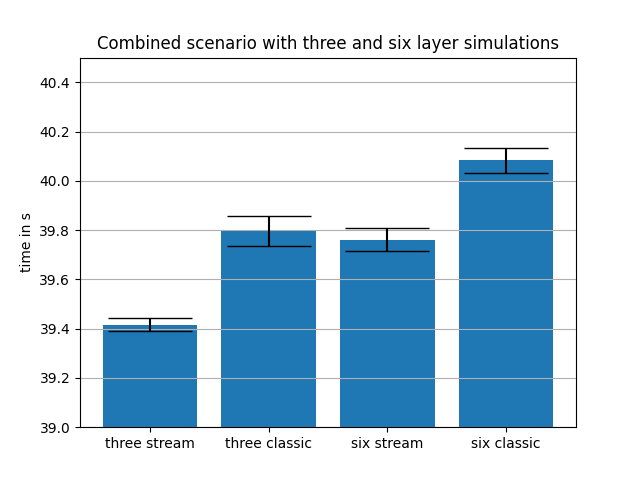
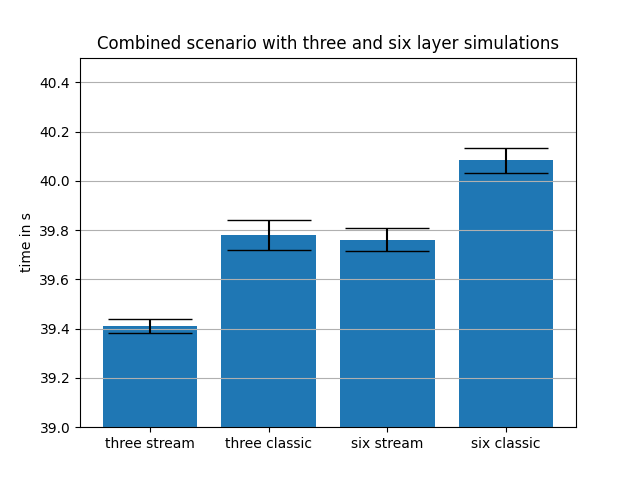
Add median plots

Changed region(s): [[0.3438, 0.4375, 0.5, 0.5312], [0.1562, 0.6562, 0.3125, 0.7188]]

diff --git a/PiCN/Simulations/Streaming/CombinedSimulations/create_plot_combined.py b/PiCN/Simulations/Streaming/CombinedSimulations/create_plot_combined.py
@@ -55,6 +55,11 @@ three_classic_mean = np.mean(three_time_list_classic)
 six_stream_mean = np.mean(six_time_list_stream)
 six_classic_mean = np.mean(six_time_list_classic)
 
+three_stream_median = np.median(three_time_list_stream)
+three_classic_median = np.median(three_time_list_classic)
+six_stream_median = np.mean(six_time_list_stream)
+six_classic_median = np.mean(six_time_list_classic)
+
 three_stream_std = np.std(three_time_list_stream)
 three_classic_std = np.std(three_time_list_classic)
 six_stream_std = np.std(six_time_list_stream)
@@ -63,16 +68,21 @@ six_classic_std = np.std(six_time_list_classic)
 labels = ["three stream", "three classic", "six stream", "six classic"]
 x_pos = np.arange(len(labels))
 means = [three_stream_mean, three_classic_mean, six_stream_mean, six_classic_mean]
+print(three_stream_median, three_stream_mean)
+print(three_classic_median, three_classic_mean)
+print(six_stream_median, six_stream_mean)
+print(six_classic_median, six_classic_mean)
+medians = [three_stream_median, three_classic_median, six_stream_median, six_classic_median]
 error = [three_stream_std, three_classic_std, six_stream_std, six_classic_std]
 
 fig, temp = plt.subplots()
-temp.bar(x_pos, means, yerr=error, align="center", alpha=1, ecolor="black", capsize=30)
+temp.bar(x_pos, medians, yerr=error, align="center", alpha=1, ecolor="black", capsize=30)
 temp.set_ylabel("time in s")
 temp.set_xticks(x_pos)
 temp.set_xticklabels(labels)
-temp.set_title('Combined scenario with three and six layer simulations')
+temp.set_title('Combined scenario with three and six layer simulations (with median)')
 temp.yaxis.grid(True)
 
 plt.ylim(39,40.5)
-plt.savefig('combined_errorbar_plot.png')
+plt.savefig('combined_errorbar_plot_median.png')
 plt.show()

diff --git a/PiCN/Simulations/Streaming/ReduceSimulations/create_plot_reduce.py b/PiCN/Simulations/Streaming/ReduceSimulations/create_plot_reduce.py
@@ -55,6 +55,12 @@ three_classic_mean = np.mean(three_time_list_classic)
 six_stream_mean = np.mean(six_time_list_stream)
 six_classic_mean = np.mean(six_time_list_classic)
 
+
+three_stream_median = np.median(three_time_list_stream)
+three_classic_median = np.median(three_time_list_classic)
+six_stream_median = np.mean(six_time_list_stream)
+six_classic_median = np.mean(six_time_list_classic)
+
 three_stream_std = np.std(three_time_list_stream)
 three_classic_std = np.std(three_time_list_classic)
 six_stream_std = np.std(six_time_list_stream)
@@ -63,16 +69,21 @@ six_classic_std = np.std(six_time_list_classic)
 labels = ["three stream", "three classic", "six stream", "six classic"]
 x_pos = np.arange(len(labels))
 means = [three_stream_mean, three_classic_mean, six_stream_mean, six_classic_mean]
+print(three_stream_median, three_stream_mean)
+print(three_classic_median, three_classic_mean)
+print(six_stream_median, six_stream_mean)
+print(six_classic_median, six_classic_mean)
+medians = [three_stream_median, three_classic_median, six_stream_median, six_classic_median]
 error = [three_stream_std, three_classic_std, six_stream_std, six_classic_std]
 
 fig, temp = plt.subplots()
-temp.bar(x_pos, means, yerr=error, align="center", alpha=1, ecolor="black", capsize=30)
+temp.bar(x_pos, medians, yerr=error, align="center", alpha=1, ecolor="black", capsize=30)
 temp.set_ylabel("time in s")
 temp.set_xticks(x_pos)
 temp.set_xticklabels(labels)
-temp.set_title('Reduce scenario with three and six layer simulations')
+temp.set_title('Reduce scenario with three and six layer simulations (with median)')
 temp.yaxis.grid(True)
 
 plt.ylim(20,20.8)
-plt.savefig('reduce_errorbar_plot.png')
+plt.savefig('reduce_errorbar_plot_median.png')
 plt.show()

diff --git a/PiCN/Simulations/Streaming/MapSimulations/create_plot_map.py b/PiCN/Simulations/Streaming/MapSimulations/create_plot_map.py
@@ -55,6 +55,11 @@ three_classic_mean = np.mean(three_time_list_classic)
 six_stream_mean = np.mean(six_time_list_stream)
 six_classic_mean = np.mean(six_time_list_classic)
 
+three_stream_median = np.median(three_time_list_stream)
+three_classic_median = np.median(three_time_list_classic)
+six_stream_median = np.mean(six_time_list_stream)
+six_classic_median = np.mean(six_time_list_classic)
+
 three_stream_std = np.std(three_time_list_stream)
 three_classic_std = np.std(three_time_list_classic)
 six_stream_std = np.std(six_time_list_stream)
@@ -63,16 +68,21 @@ six_classic_std = np.std(six_time_list_classic)
 labels = ["three stream", "three classic", "six stream", "six classic"]
 x_pos = np.arange(len(labels))
 means = [three_stream_mean, three_classic_mean, six_stream_mean, six_classic_mean]
+print(three_stream_median, three_stream_mean)
+print(three_classic_median, three_classic_mean)
+print(six_stream_median, six_stream_mean)
+print(six_classic_median, six_classic_mean)
+medians = [three_stream_median, three_classic_median, six_stream_median, six_classic_median]
 error = [three_stream_std, three_classic_std, six_stream_std, six_classic_std]
 
 fig, temp = plt.subplots()
-temp.bar(x_pos, means, yerr=error, align="center", alpha=1, ecolor="black", capsize=30)
+temp.bar(x_pos, medians, yerr=error, align="center", alpha=1, ecolor="black", capsize=30)
 temp.set_ylabel("time in s")
 temp.set_xticks(x_pos)
 temp.set_xticklabels(labels)
-temp.set_title('Map scenario with three and six layer simulations')
+temp.set_title('Map scenario with three and six layer simulations (with median)')
 temp.yaxis.grid(True)
 
 plt.ylim(20,21.5)
-plt.savefig('map_errorbar_plot.png')
+plt.savefig('map_errorbar_plot_median.png')
 plt.show()
